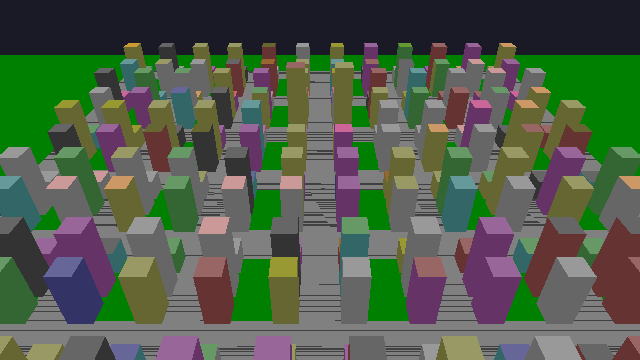
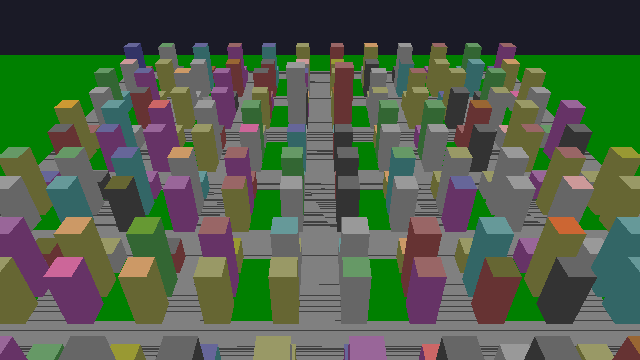
Fix interactive scene vertical orientation

diff --git a/citybuilder/rendering/debug_overlay.py b/citybuilder/rendering/debug_overlay.py
@@ -188,8 +188,11 @@ fn vs_main(@builtin(vertex_index) vertex_index: u32) -> VertexOutput {
     var xy = array<vec2f, 4>(vec2f(0.0, 0.0), vec2f(1.0, 0.0), vec2f(0.0, 1.0), vec2f(1.0, 1.0));
     var uv = array<vec2f, 4>(vec2f(0.0, 0.0), vec2f(1.0, 0.0), vec2f(0.0, 1.0), vec2f(1.0, 1.0));
     var output: VertexOutput;
-    output.position = vec4f(xy[vertex_index] * overlay.quad_size * 2.0
-                            - vec2f(1.0, 1.0), 0.0, 1.0);
+    var screen_xy = vec2f(
+        xy[vertex_index].x * overlay.quad_size.x * 2.0 - 1.0,
+        1.0 - xy[vertex_index].y * overlay.quad_size.y * 2.0,
+    );
+    output.position = vec4f(screen_xy, 0.0, 1.0);
     output.uv = uv[vertex_index] * overlay.uv_scale;
     return output;
 }

diff --git a/citybuilder/rendering/renderer.py b/citybuilder/rendering/renderer.py
@@ -120,7 +120,9 @@ struct VertexOutput {
 @vertex
 fn vs_main(@builtin(vertex_index) vertex_index: u32) -> VertexOutput {
     var xy = array<vec2f, 4>(vec2f(-1.0, -1.0), vec2f(1.0, -1.0), vec2f(-1.0, 1.0), vec2f(1.0, 1.0));
-    var uv = array<vec2f, 4>(vec2f(0.0, 0.0), vec2f(1.0, 0.0), vec2f(0.0, 1.0), vec2f(1.0, 1.0));
+    // The render target's texture origin is top-left while clip-space Y=-1
+    // is the bottom of the window.  Invert texture Y for the present pass.
+    var uv = array<vec2f, 4>(vec2f(0.0, 1.0), vec2f(1.0, 1.0), vec2f(0.0, 0.0), vec2f(1.0, 0.0));
     var output: VertexOutput;
     output.position = vec4f(xy[vertex_index], 0.0, 1.0);
     output.uv = uv[vertex_index];
